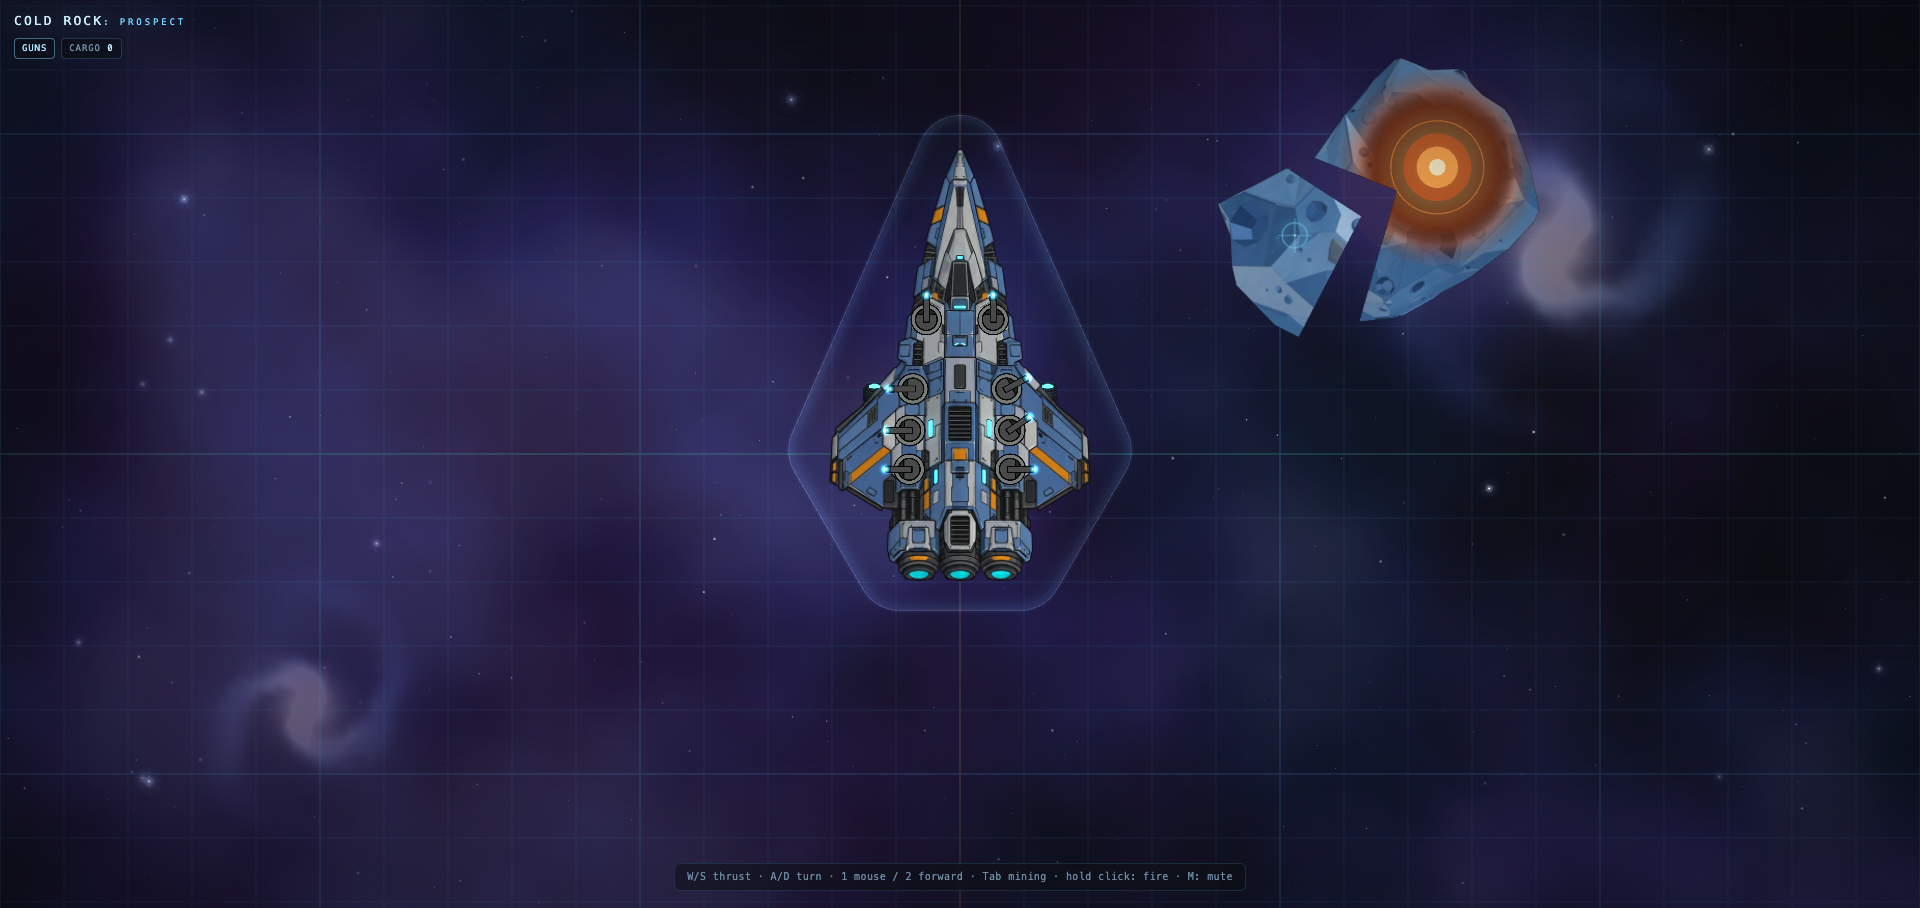
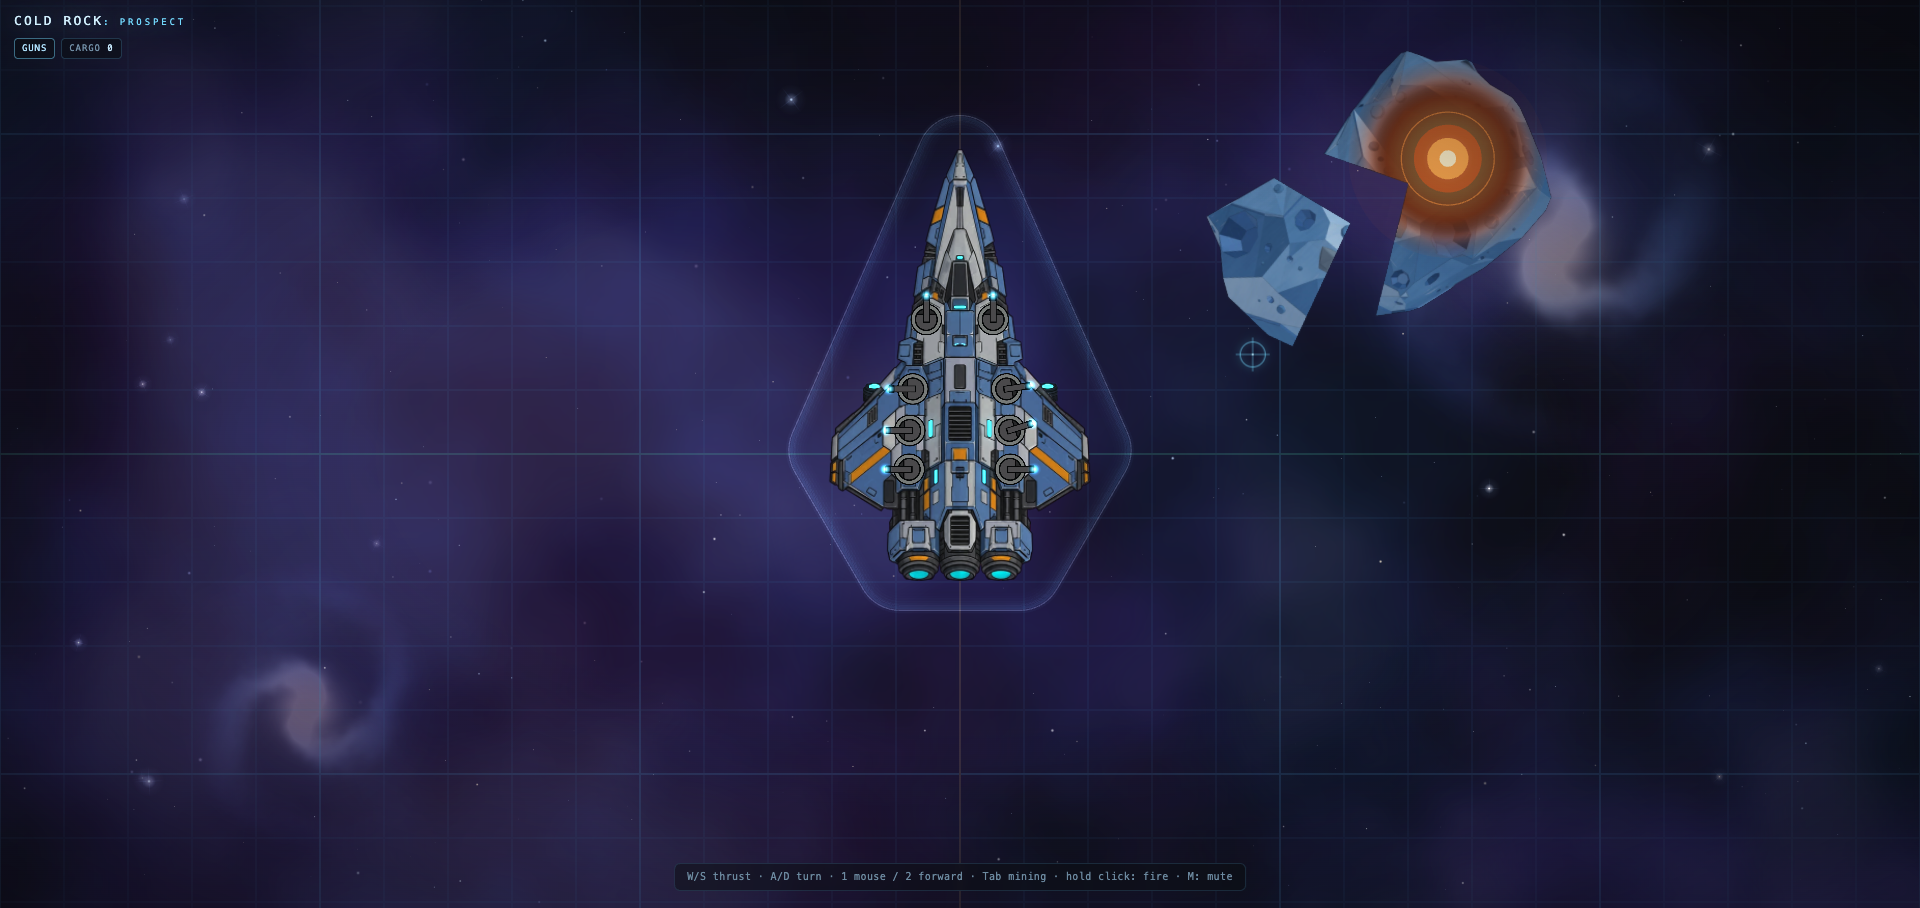
fix: separate broken pieces with a visible gap

Changed region(s): [[0.625, 0.0617, 0.8125, 0.4009], [0.5312, 0.4009, 0.5625, 0.4317]]

diff --git a/src/app/fracture-rock.ts b/src/app/fracture-rock.ts
@@ -12,6 +12,8 @@ const SHELL_HITS_TO_BREAK = 3;
 const WEAK_POINT_RADIUS_FRACTION = 0.62;
 const WEAK_POINT_HIT_RADIUS_M = 1.8;
 const FRAGMENT_DAMPING = 2.2;
+/** Immediate separation so the two cut faces never stay welded together. */
+const SEPARATION_GAP_M = 0.55;
 /** Angle of the small cracked-out wedge; the remainder is >180°. */
 const WEDGE_ANGLE = Math.PI * 0.55;
 const CORE_RADIUS_M = 0.95;
@@ -267,11 +269,15 @@ export function createFractureRock(field: AsteroidField, options: FractureOption
     container.addChild(fragment);
 
     const local = rotate(plan.centroid, shellCollider.rotation);
-    const world = { x: shellCollider.x + local.x, y: shellCollider.y + local.y };
     const cutNormal = { x: Math.cos(weakPointAngle), y: Math.sin(weakPointAngle) };
-    // Barely enough separation to expose the seam, then damping stops both
-    // pieces nearby. They persist as solid pieces for the rest of the scene.
-    const speed = 0.7 + index * 0.05;
+    // Push each piece half the gap away from the cut immediately, then let the
+    // small velocity open it a little further. Damping stops them nearby.
+    const gap = (SEPARATION_GAP_M / 2) * side;
+    const world = {
+      x: shellCollider.x + local.x + cutNormal.x * gap,
+      y: shellCollider.y + local.y + cutNormal.y * gap,
+    };
+    const speed = 0.55 + index * 0.05;
     const tangent = side;
     const angle = shellCollider.rotation + side * 0.06;
     const colliderPoints = plan.hull.map((point) => ({

diff --git a/docs/GAMEPLAY.md b/docs/GAMEPLAY.md
@@ -83,9 +83,9 @@ straight ahead while the gun battery stays on pointer tracking (and vice versa).
 ring is a weak point. In gun mode, three hits on the weak point grow a **hot V-notch crack** into
 the sprite; the third splits the rock into a **small cracked-out wedge** and a **larger >180°
 piece**. Both are baked from the original art, have their own convex colliders, drift only a
-short distance apart and **persist** — no physics engine. The **molten core is baked into the
-larger piece** and moves with it; a live hotspot overlay stays above the pie so it is never
-occluded. Tab to the mining rig and cut it like any other rock. The
+short distance apart with an **immediate gap** and **persist** — no physics engine. The
+**molten core is baked into the larger piece** and moves with it; a live hotspot overlay stays
+above the pie so it is never occluded. Tab to the mining rig and cut it like any other rock. The
 shell must be opened with guns first: the mining rig has no target on the intact shell.
 
 ![V-notch crack growing across the destructible test rock](visuals/09-fracture-crack.png)

diff --git a/AGENTS.md b/AGENTS.md
@@ -176,9 +176,9 @@ behaviour, also run `pnpm browser:inspect` and check the screenshot.
   growing V-notch crack overlay, and a three-hit shell break. The shell splits into a small
   cracked-out wedge plus a larger >180° piece with baked fragment textures, separate convex
   colliders and shallow drift/rotation bodies.
-  Both pieces persist and stay close to the break. The molten core is baked into the larger
-  piece's albedo, with a live hotspot overlay kept above it so it is never occluded; it is a
-  mining target. No physics engine.
+  Both pieces get an immediate separation gap, persist and stay close to the break. The molten
+  core is baked into the larger piece's albedo, with a live hotspot overlay kept above it so it
+  is never occluded; it is a mining target. No physics engine.
 - `src/app/mining-model.ts` — pure reflection, beam-carry, intake-pulse and rotated-rect intake
   math, unit-tested (laser/tracer hit tests are polygon-based in `asteroid-collision.ts`).
 - `src/app/mining-tuning.ts` — live `MiningTuning` values (melt dwell/spot/cool, focus melt/radius,
